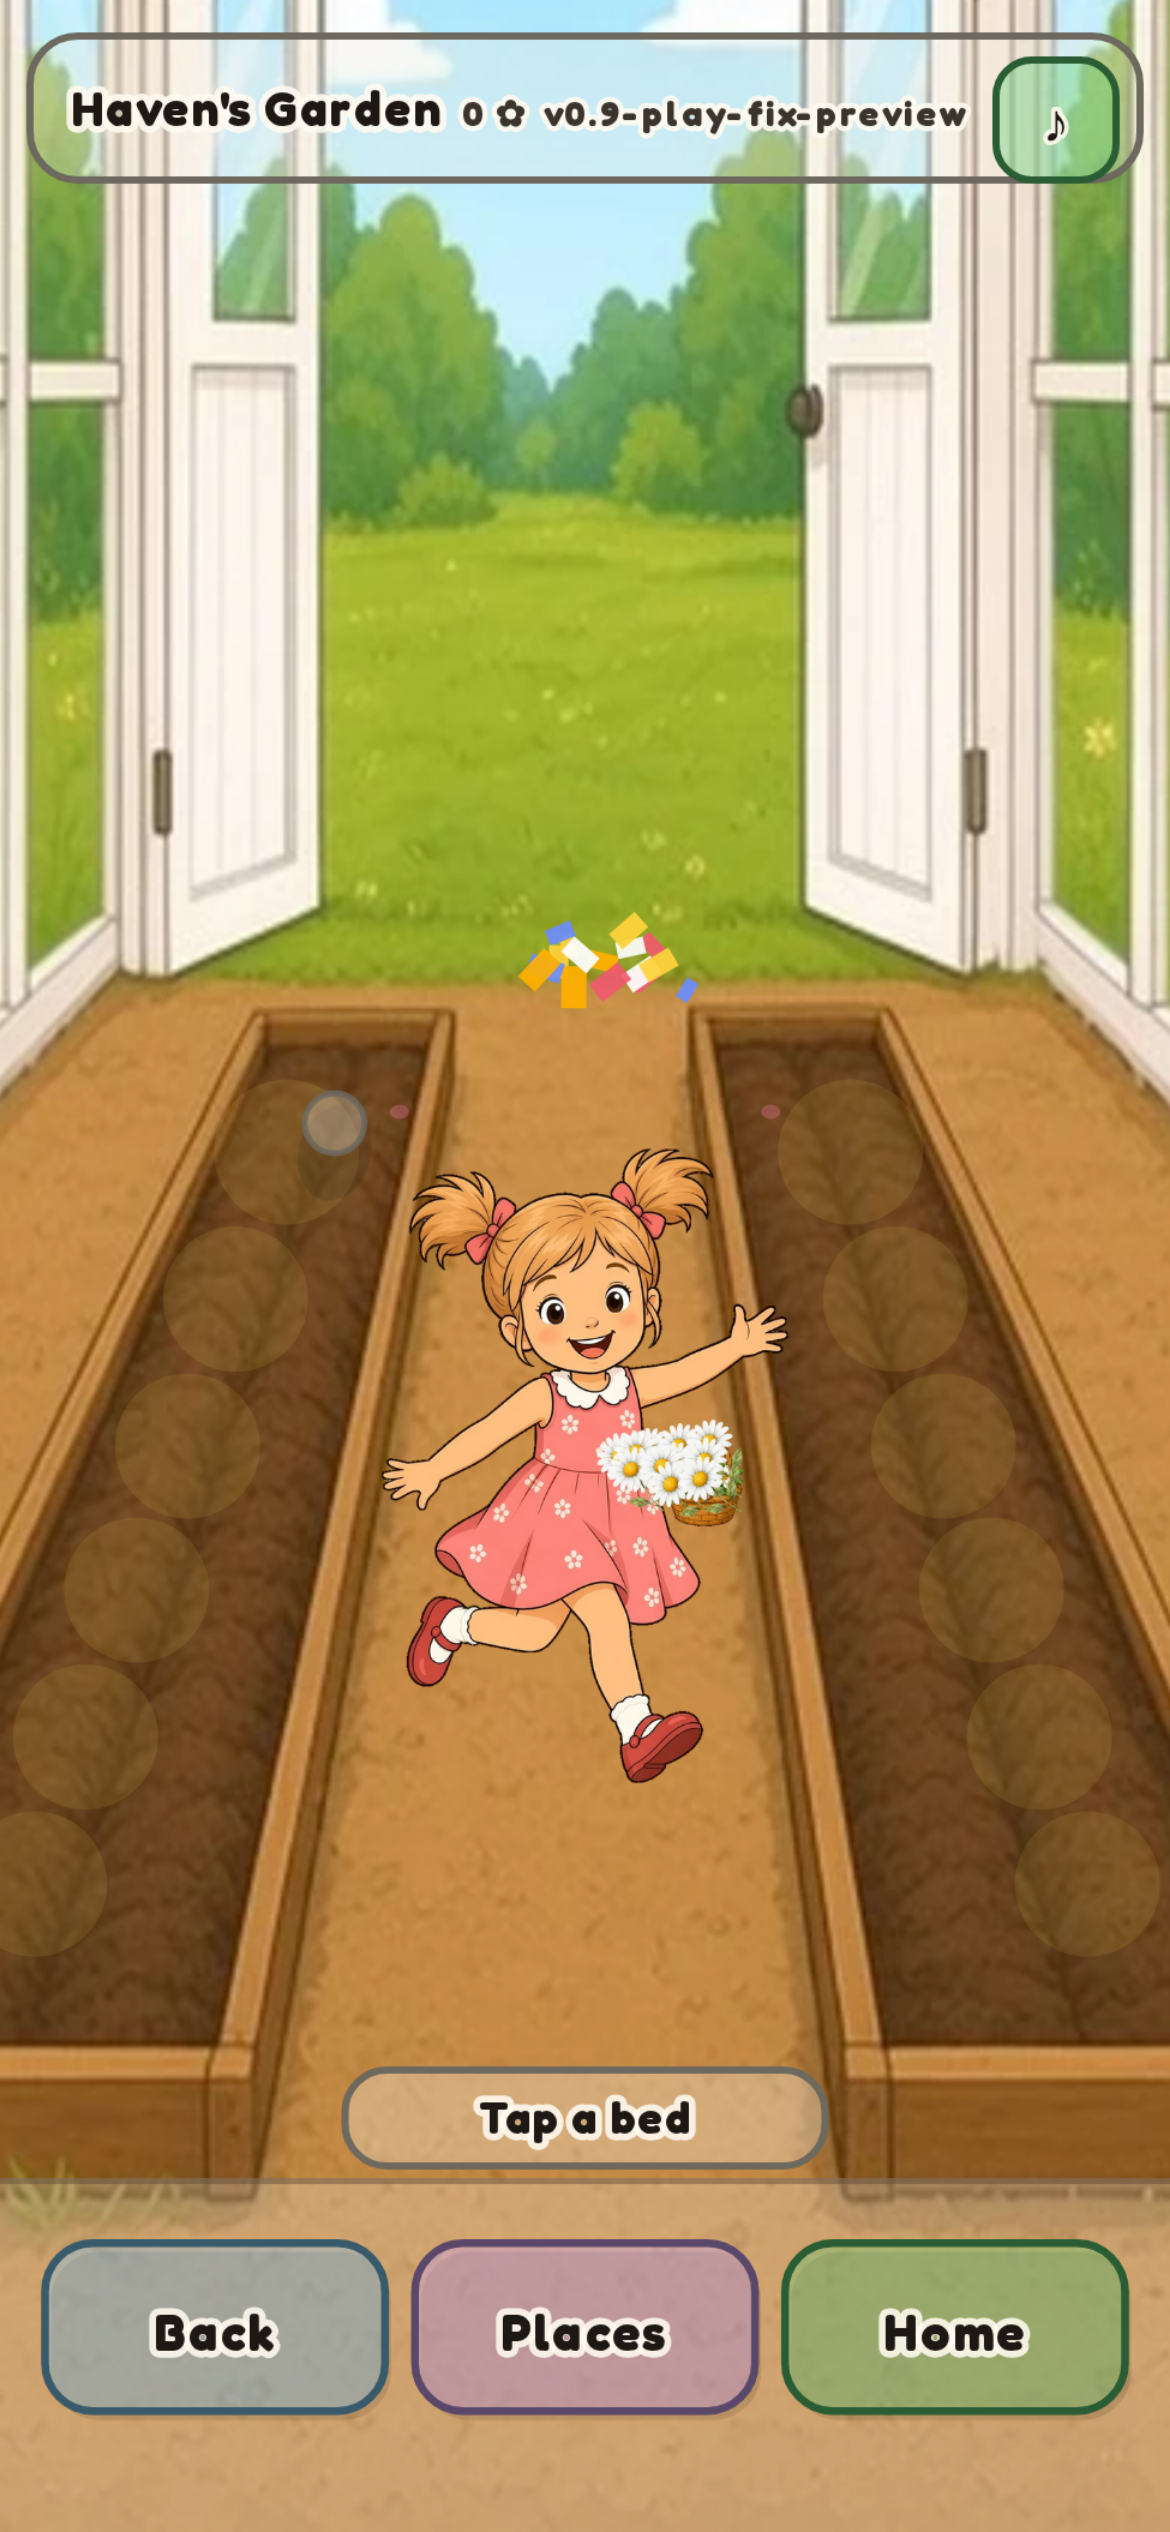
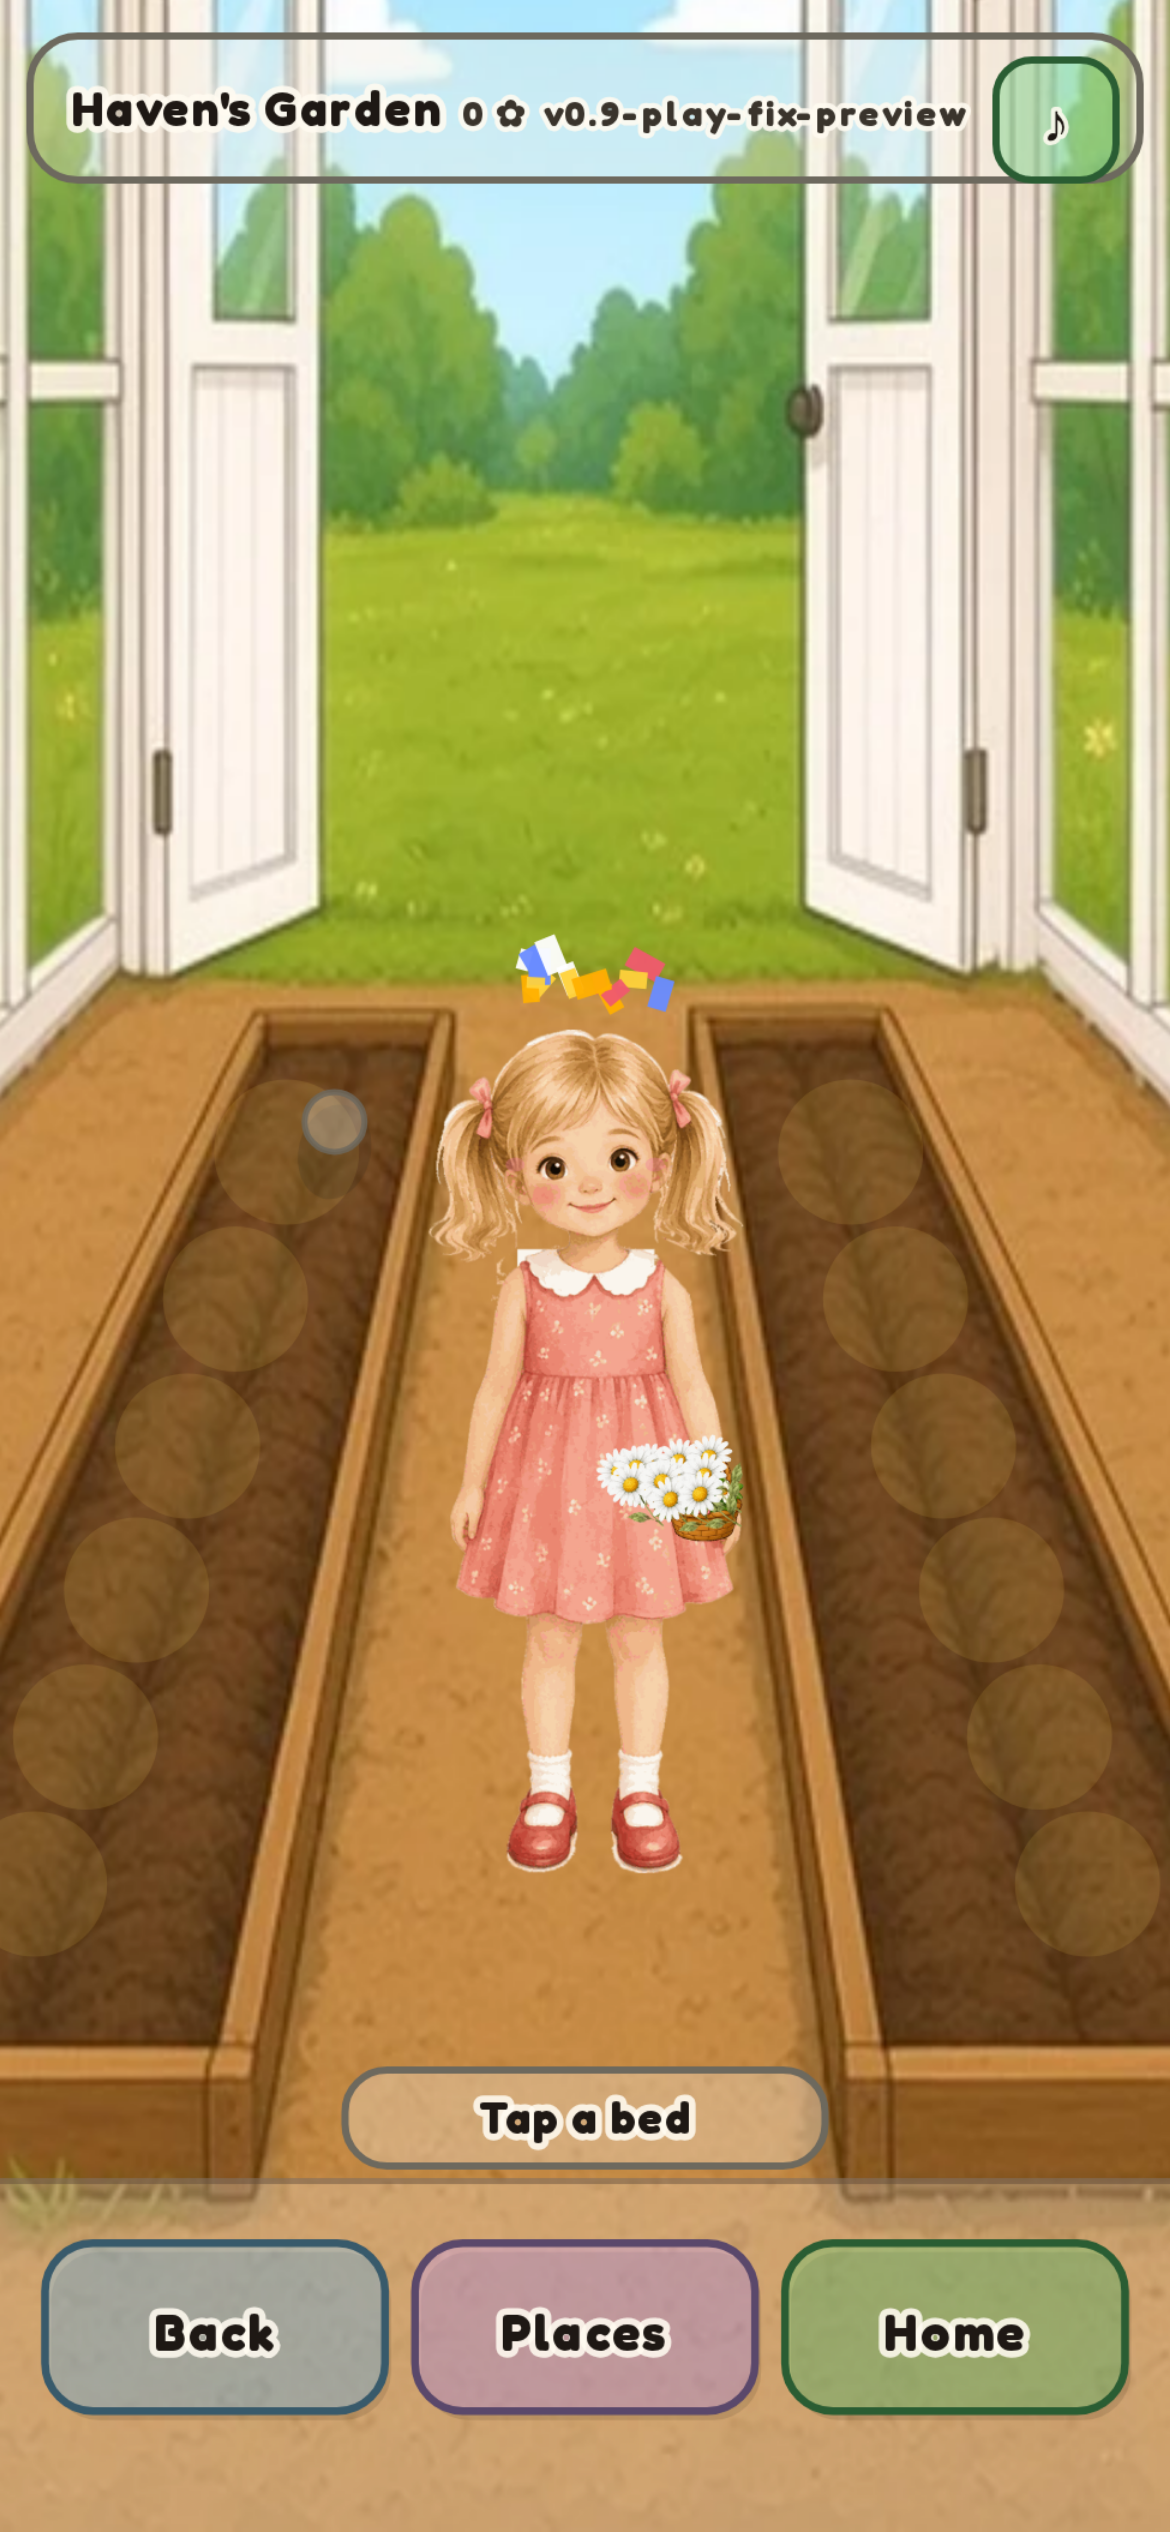
fix(arcade): load havenFront for idle so boot stands on the path
CORE_KEYS omitted havenFront, so idle fell back to havenSkip (leap). Precache
front stance, clamp idle bob, and nudge feet onto the meadow path.

Changed region(s): [[0.3077, 0.3432, 0.6769, 0.7488]]

diff --git a/arcade/havens-garden-birthday-preview/js/haven-anim.js b/arcade/havens-garden-birthday-preview/js/haven-anim.js
@@ -244,21 +244,22 @@ const HavenAnim = (() => {
     const gait = meta.gait || (meta.walking ? 'walk' : 'idle');
     const img = pickBaseImage(Assets, gait, girl.walkFrame | 0, pose, meta.netSwing || 0);
     const face = (STATE.idleKind === 1 ? STATE.lookFace : girl.face) || 1;
-    const bob = STATE.bob + (meta.extraBob || 0);
     const lean = STATE.lean + (STATE.idleKind === 1 ? STATE.lookFace * 0.05 : 0);
     const squash = STATE.bodySquash != null ? STATE.bodySquash : (girl.squash != null ? girl.squash : 1);
     const stretchX = 1 + STATE.skirt + (1 - Math.min(1, squash)) * 0.35;
+    // Idle / plant: keep feet glued to ground (bob was lifting her off the path)
+    let bob = STATE.bob + (meta.extraBob || 0);
+    if (pose === 'idle' && !meta.walking) bob = Math.min(bob, 1.5);
+    if (pose === 'plant' || pose === 'pick' || pose === 'water') bob = Math.min(8, Math.max(0, bob));
+    // Franz sheets pad below the shoes — nudge idle front down onto the path
+    if (pose === 'idle' && !meta.walking) bob += h * 0.06;
 
     cx.save();
     cx.translate(x, y);
     cx.scale(face, 1);
-    cx.rotate(lean);
-    cx.scale(stretchX, squash);
-    // Plant/pick/water: feet stay planted — slight squat bob only, no lift
-    const drawBob = (pose === 'plant' || pose === 'pick' || pose === 'water')
-      ? Math.min(8, Math.max(0, bob))
-      : bob;
-    cx.translate(0, drawBob);
+    cx.rotate(lean * (pose === 'idle' && !meta.walking ? 0.35 : 1));
+    cx.scale(pose === 'idle' && !meta.walking ? 1 : stretchX, pose === 'idle' && !meta.walking ? 1 : squash);
+    cx.translate(0, bob);
 
     if (img) {
       const iw = img.width, ih = img.height;

diff --git a/arcade/havens-garden-play-fix-preview/js/haven-anim.js b/arcade/havens-garden-play-fix-preview/js/haven-anim.js
@@ -244,21 +244,22 @@ const HavenAnim = (() => {
     const gait = meta.gait || (meta.walking ? 'walk' : 'idle');
     const img = pickBaseImage(Assets, gait, girl.walkFrame | 0, pose, meta.netSwing || 0);
     const face = (STATE.idleKind === 1 ? STATE.lookFace : girl.face) || 1;
-    const bob = STATE.bob + (meta.extraBob || 0);
     const lean = STATE.lean + (STATE.idleKind === 1 ? STATE.lookFace * 0.05 : 0);
     const squash = STATE.bodySquash != null ? STATE.bodySquash : (girl.squash != null ? girl.squash : 1);
     const stretchX = 1 + STATE.skirt + (1 - Math.min(1, squash)) * 0.35;
+    // Idle / plant: keep feet glued to ground (bob was lifting her off the path)
+    let bob = STATE.bob + (meta.extraBob || 0);
+    if (pose === 'idle' && !meta.walking) bob = Math.min(bob, 1.5);
+    if (pose === 'plant' || pose === 'pick' || pose === 'water') bob = Math.min(8, Math.max(0, bob));
+    // Franz sheets pad below the shoes — nudge idle front down onto the path
+    if (pose === 'idle' && !meta.walking) bob += h * 0.06;
 
     cx.save();
     cx.translate(x, y);
     cx.scale(face, 1);
-    cx.rotate(lean);
-    cx.scale(stretchX, squash);
-    // Plant/pick/water: feet stay planted — slight squat bob only, no lift
-    const drawBob = (pose === 'plant' || pose === 'pick' || pose === 'water')
-      ? Math.min(8, Math.max(0, bob))
-      : bob;
-    cx.translate(0, drawBob);
+    cx.rotate(lean * (pose === 'idle' && !meta.walking ? 0.35 : 1));
+    cx.scale(pose === 'idle' && !meta.walking ? 1 : stretchX, pose === 'idle' && !meta.walking ? 1 : squash);
+    cx.translate(0, bob);
 
     if (img) {
       const iw = img.width, ih = img.height;

diff --git a/arcade/havens-garden-birthday-preview/js/assets.js b/arcade/havens-garden-birthday-preview/js/assets.js
@@ -160,7 +160,7 @@ const AssetManifest = Object.assign({}, AssetPaths, buildGreenhousePaths(), buil
 /** First-scene (meadow/menu) — keep cold load small. No CBN/concept/all GH sizes. */
 const CORE_KEYS = [
   'plateMeadow', 'meadowDay',
-  'havenRun', 'havenJump', 'havenPick', 'havenChase', 'havenSkip', 'havenPlant',
+  'havenRun', 'havenJump', 'havenPick', 'havenChase', 'havenSkip', 'havenPlant', 'havenFront',
   'havenWalk01', 'havenWalk02', 'havenWalk03', 'havenWalk04',
   'bouquet0', 'bouquet1', 'bouquet2', 'bouquet3', 'bouquetFull',
   'flowerDaisy', 'flowerTulip', 'flowerSunflower', 'flowerBluebell', 'flowerPop',

diff --git a/arcade/havens-garden-play-fix-preview/js/assets.js b/arcade/havens-garden-play-fix-preview/js/assets.js
@@ -160,7 +160,7 @@ const AssetManifest = Object.assign({}, AssetPaths, buildGreenhousePaths(), buil
 /** First-scene (meadow/menu) — keep cold load small. No CBN/concept/all GH sizes. */
 const CORE_KEYS = [
   'plateMeadow', 'meadowDay',
-  'havenRun', 'havenJump', 'havenPick', 'havenChase', 'havenSkip', 'havenPlant',
+  'havenRun', 'havenJump', 'havenPick', 'havenChase', 'havenSkip', 'havenPlant', 'havenFront',
   'havenWalk01', 'havenWalk02', 'havenWalk03', 'havenWalk04',
   'bouquet0', 'bouquet1', 'bouquet2', 'bouquet3', 'bouquetFull',
   'flowerDaisy', 'flowerTulip', 'flowerSunflower', 'flowerBluebell', 'flowerPop',

diff --git a/arcade/havens-garden-birthday-preview/sw.js b/arcade/havens-garden-birthday-preview/sw.js
@@ -28,6 +28,7 @@ const PRECACHE = [
   './assets/icon/app-icon-512.png',
   './assets/plates/meadow-day.webp',
   './assets/character/haven-run.png',
+  './assets/character/haven-front.png',
   './assets/character/haven-walk-01.png',
   './assets/character/haven-walk-02.png',
   './assets/character/haven-pick.png',

diff --git a/arcade/havens-garden-play-fix-preview/sw.js b/arcade/havens-garden-play-fix-preview/sw.js
@@ -28,6 +28,7 @@ const PRECACHE = [
   './assets/icon/app-icon-512.png',
   './assets/plates/meadow-day.webp',
   './assets/character/haven-run.png',
+  './assets/character/haven-front.png',
   './assets/character/haven-walk-01.png',
   './assets/character/haven-walk-02.png',
   './assets/character/haven-pick.png',
